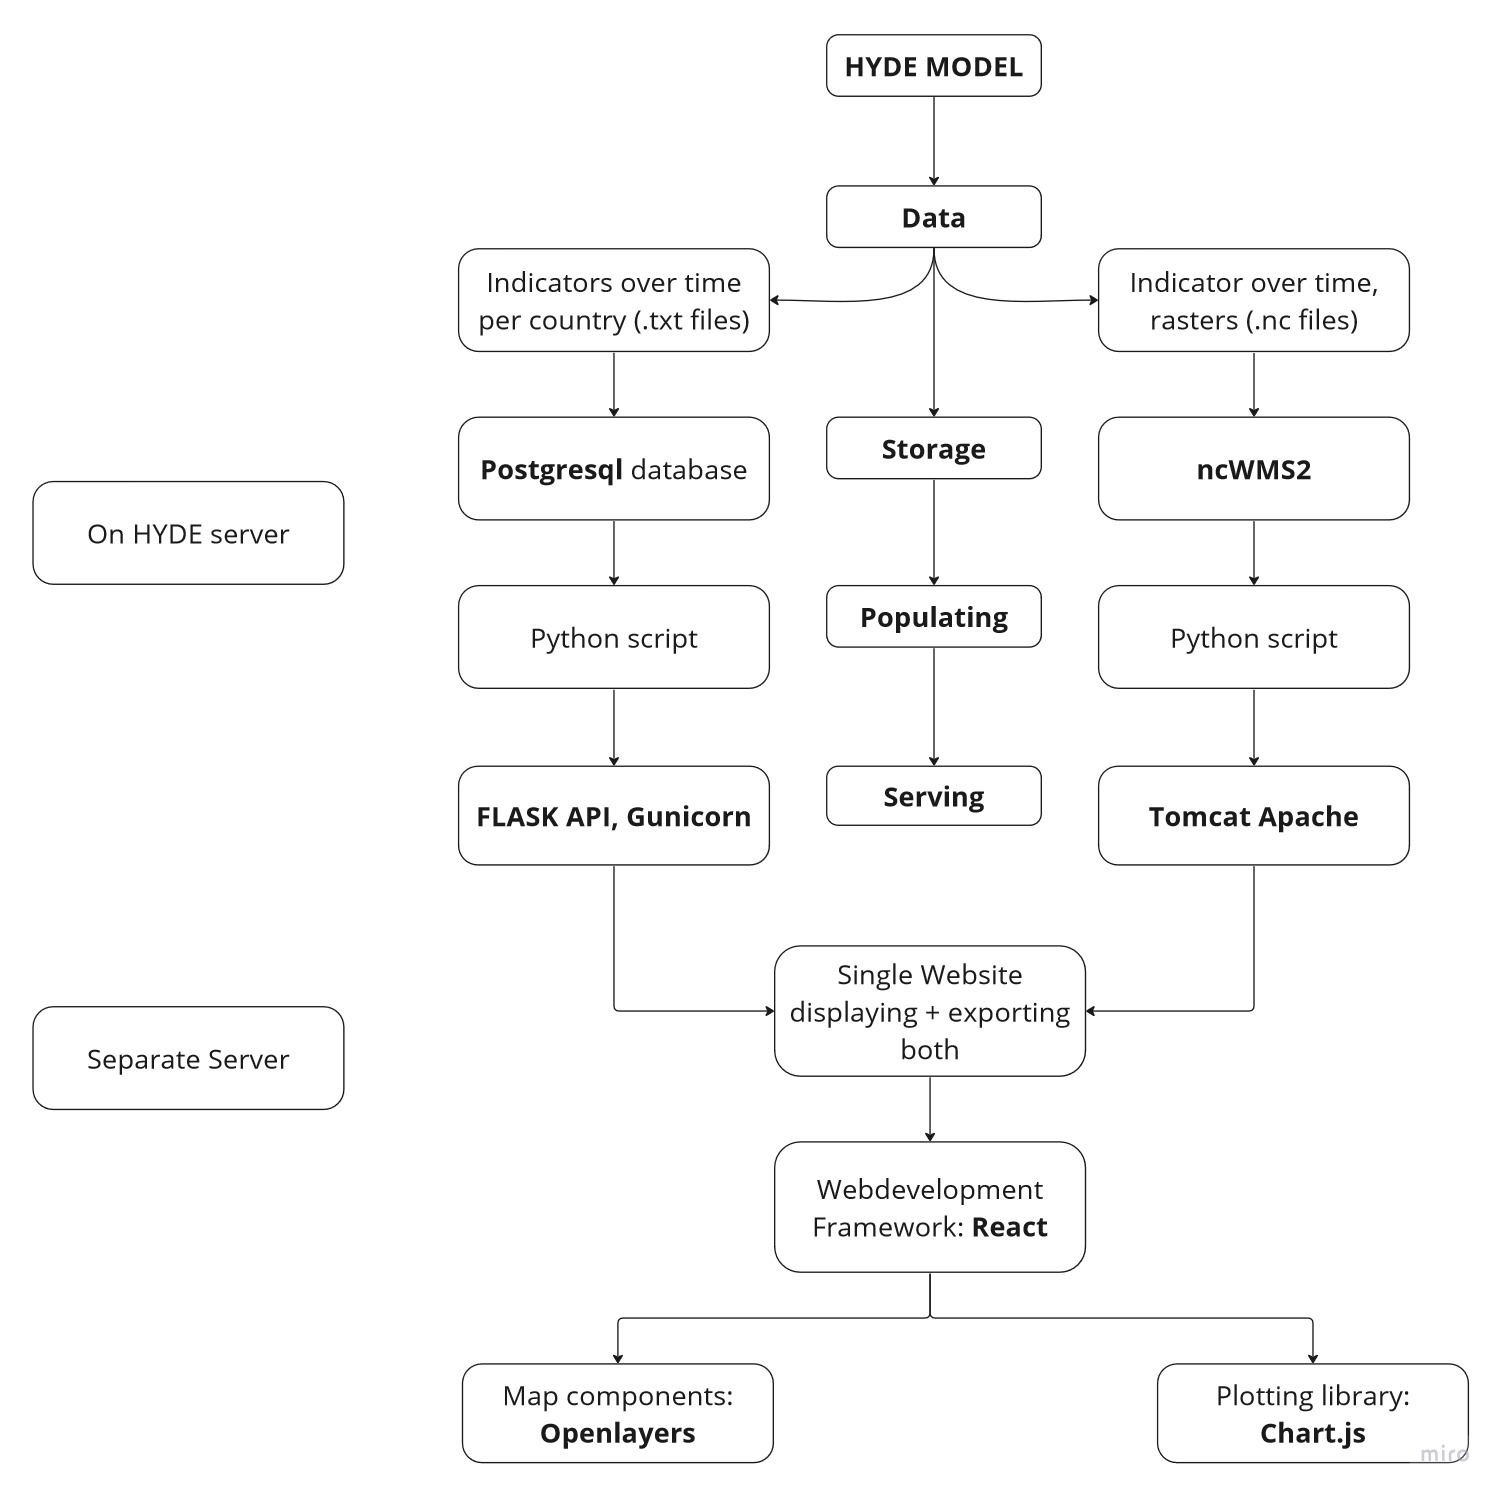
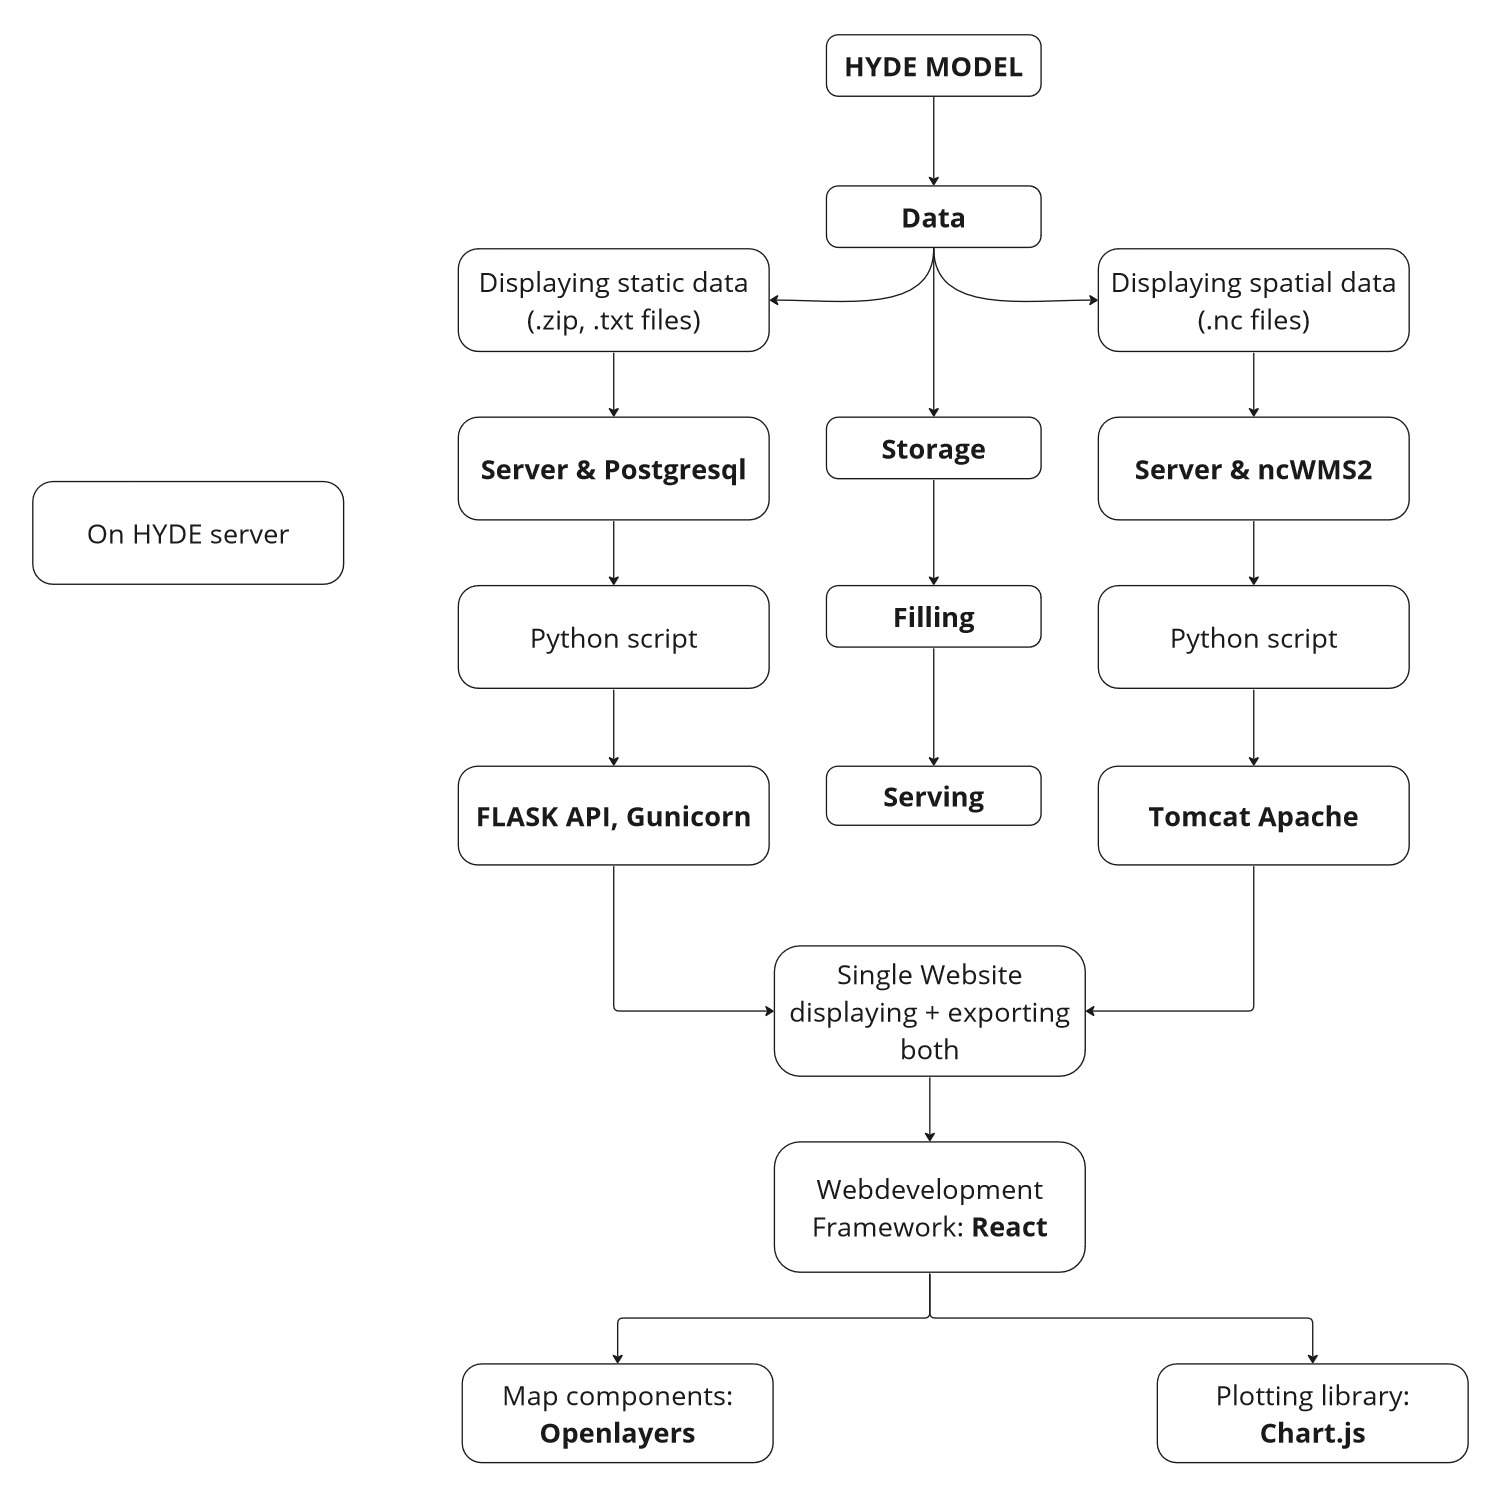
pin kan je niet bewegen

diff --git a/frontend/src/home-components/Timeline.js b/frontend/src/home-components/Timeline.js
@@ -180,7 +180,7 @@ export default function Timeline({ currentYear, setCurrentYear }) {
             </div>
           </div>
         </div>
-        <img src="/pointer.png" id="pin" alt="pointer" />
+        <img src="/pointer.png" id="pin" alt="pointer" pointerEvents="none" draggable="false"/>
         {notDragged && (
           <div className='bg-primary' style={{ position: "absolute", left: 'calc(50% + 20px)', top: -20, borderRadius: '10px', padding: '10px', color: 'white', fontWeight: 'bold', boxShadow: '0px 4px 8px rgba(0, 0, 0, 0.2)' }}>
             Drag the Timeline to explore different years and eras!

diff --git a/frontend/src/App.js b/frontend/src/App.js
@@ -14,8 +14,8 @@ const router = createBrowserRouter([
 // Usefull in development, allows to quickly use local or remote APIs. 
 
 // window.apiUrl = 'http://localhost'
-// window.apiUrl = 'http://hydeprod.geo.uu.nl'
-window.apiUrl = ''
+window.apiUrl = 'http://hydeprod.geo.uu.nl'
+// window.apiUrl = ''
 
 // Return App, which has two pages: / (homepage) and /map (actual portal)
 export default function App() {

diff --git a/README.md b/README.md
@@ -94,13 +94,14 @@ Secondly, information of an indicator within a certain year can be **overlayed**
 ### Mind map of components
 The following image summarizes all components of the final Hyde Portal.
 
-**From here on! Improve**
 ![Mind map](images/Structure.jpg)
 
 Here, the different types of data that are visualised each have their own chain through which they are displayed, and how they are combined into a single website is also shown. 
 
-## Text files
-On the left, the path to expose the .txt files from the HYDE model is explained. Each indicator has one text file, which contains information for each country and year that was modelled. The data from this .txt files will be stored in a postgres database, which has the following structure: \
+## static files
+On the left, the path to expose the .txt, .png and .zip files from the HYDE model is explained. 
+### .txt files
+For the .txt files, each indicator has one text file, which contains information for each country and year that was modelled. The data from this .txt files will be stored in a postgres database, which has the following structure: \
 For any indicator, there is one table which looks as follows
 | | bce_10000 | bce_9000 | ... | ce_2017 |
 | --- | --- | --- | --- | --- |
@@ -112,10 +113,12 @@ For any indicator, there is one table which looks as follows
 In this way, for each indicator information for all countries and all years will be stored in a concise way.
 
 This database will be populating by running a python script. This python scripts will read the txt files, connect to the database and insert the desired tables.  
-Finally, a FLASK API runs, which is connected to the database. Requests can be made to this API to extract data out of the database. A request is done by connecting to a relevant URL, for example: http://localhost:8000/test or http://localhost:8000/uopp/4/bce_1000/ce_700. This API is exposed via gunicorn, this allows multiple users to access the API at the same time.
+Finally, a FLASK API runs, which is connected to the database. Requests can be made to this API to extract data out of the database. A request is done by connecting to a relevant URL, for example: http://localhost:8000/api/txt/test or http://localhost:8000/uopp/4/bce_1000/ce_700. This API is exposed via gunicorn, this allows multiple users to access the API at the same time.
+### .png and .zip files
+Images and ascii files (from .zip files) can also be also be accessed through the website. These are produced by the hyde model and served without any processing. Again a FLASK API is used to access these, the can be accessed at http://localhost:8100/api/raster/png/pasture/ce_0 or http://localhost:8100/api/raster/asc/pasture/ce_0
 
 ## Netcdf Files
-On the right, the path to expose the .nc files from the HYDE model is explained. Each indicator has one netcdf file, which contains raster for the value of that indicator at a resolution of 5 arc minutes for each modelled year. After some searching and considering other ways of serving (most notably, geoserver was carefully investigated and considered), ncWMS2 was selected as the most promosing tool for publishing netcdf data. ncWMS serves nc data in a WMS compliant way. ncWMS is populated using a python scripts, which uses the API of ncWMS to load the local .nc files into ncWMS. ncWMS is a java servlet (java web application) which we have setup to run in Apache Tomcat.
+On the right, the path to expose the .nc files from the HYDE model is explained. Each indicator has one netcdf file, which contains raster for the value of that indicator at a resolution of 5 arc minutes for each modelled year. After some searching and considering other ways of serving (most notably, geoserver was carefully investigated and considered), ncWMS2 was selected as the most promosing tool for publishing netcdf data. ncWMS serves nc data in a WMS compliant way. ncWMS is populated using a python scripts, which uses the API of ncWMS to load the local .nc files into ncWMS. ncWMS is a java servlet (java web application) which we have setup to run in Apache Tomcat. Click [here](https://reading-escience-centre.gitbooks.io/ncwms-user-guide/content/) to learn more about ncWMS
 
 ## Combined Website
 The final website must show a map with multiple different aspects such as selectability and raster overlay. A suitable library for this is Openlayers. For the plotting of the timeseries, Chart.js was selected. Finally, React was chosen as an overall framework to aid in the development flow.

diff --git a/TODO.md b/TODO.md
@@ -1,20 +1,14 @@
 MUST HAVE 
-- [] Full name on homepage!  
-- [] Initial text more clearly explain what the purposes of the homepage and the portal is.
-- [] weet je zeker dat je deze kaart gewoon mag gebruiken?
-- [] lezen en schrijven
 - [] BUG: switching from to maps doesn't display the map
-- [] analytics
+- [] sluit de apis voor buitenaf
 
 SHOULD HAVE
 - [] Britta wants geotiff export. Difficult I think
-- [] display current year indicator values
 - [] 'tick marks to distinguish time periods'. 'line of years, and the below all of the eras'
 - [] Why is timeseries a seperate tab?
 - [] misschien niet verschillende yas diingen in 1 
 - [] Start & End year begin bij huidige waarde
 - [] make zooming more clear
-- [] Tried to move dot.
 - [] just 1 api.
 
 WANT HAVE
